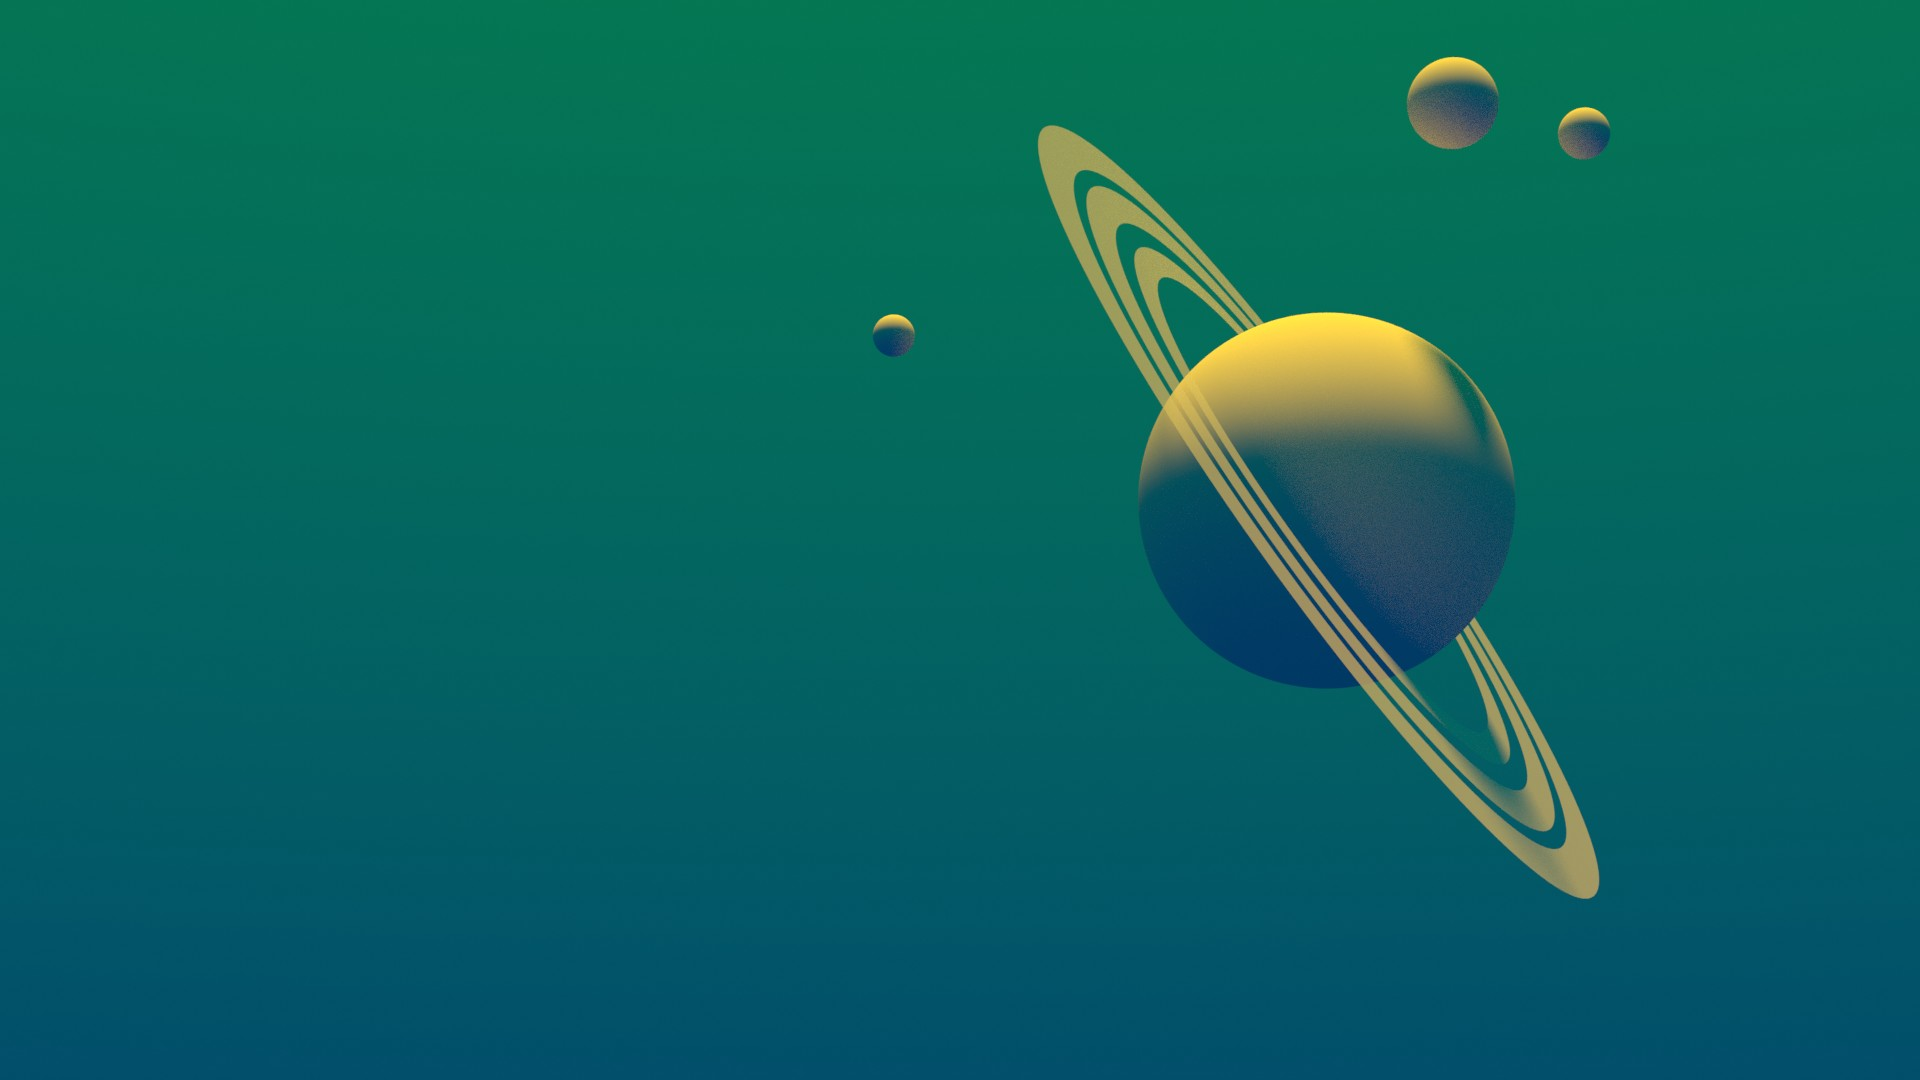
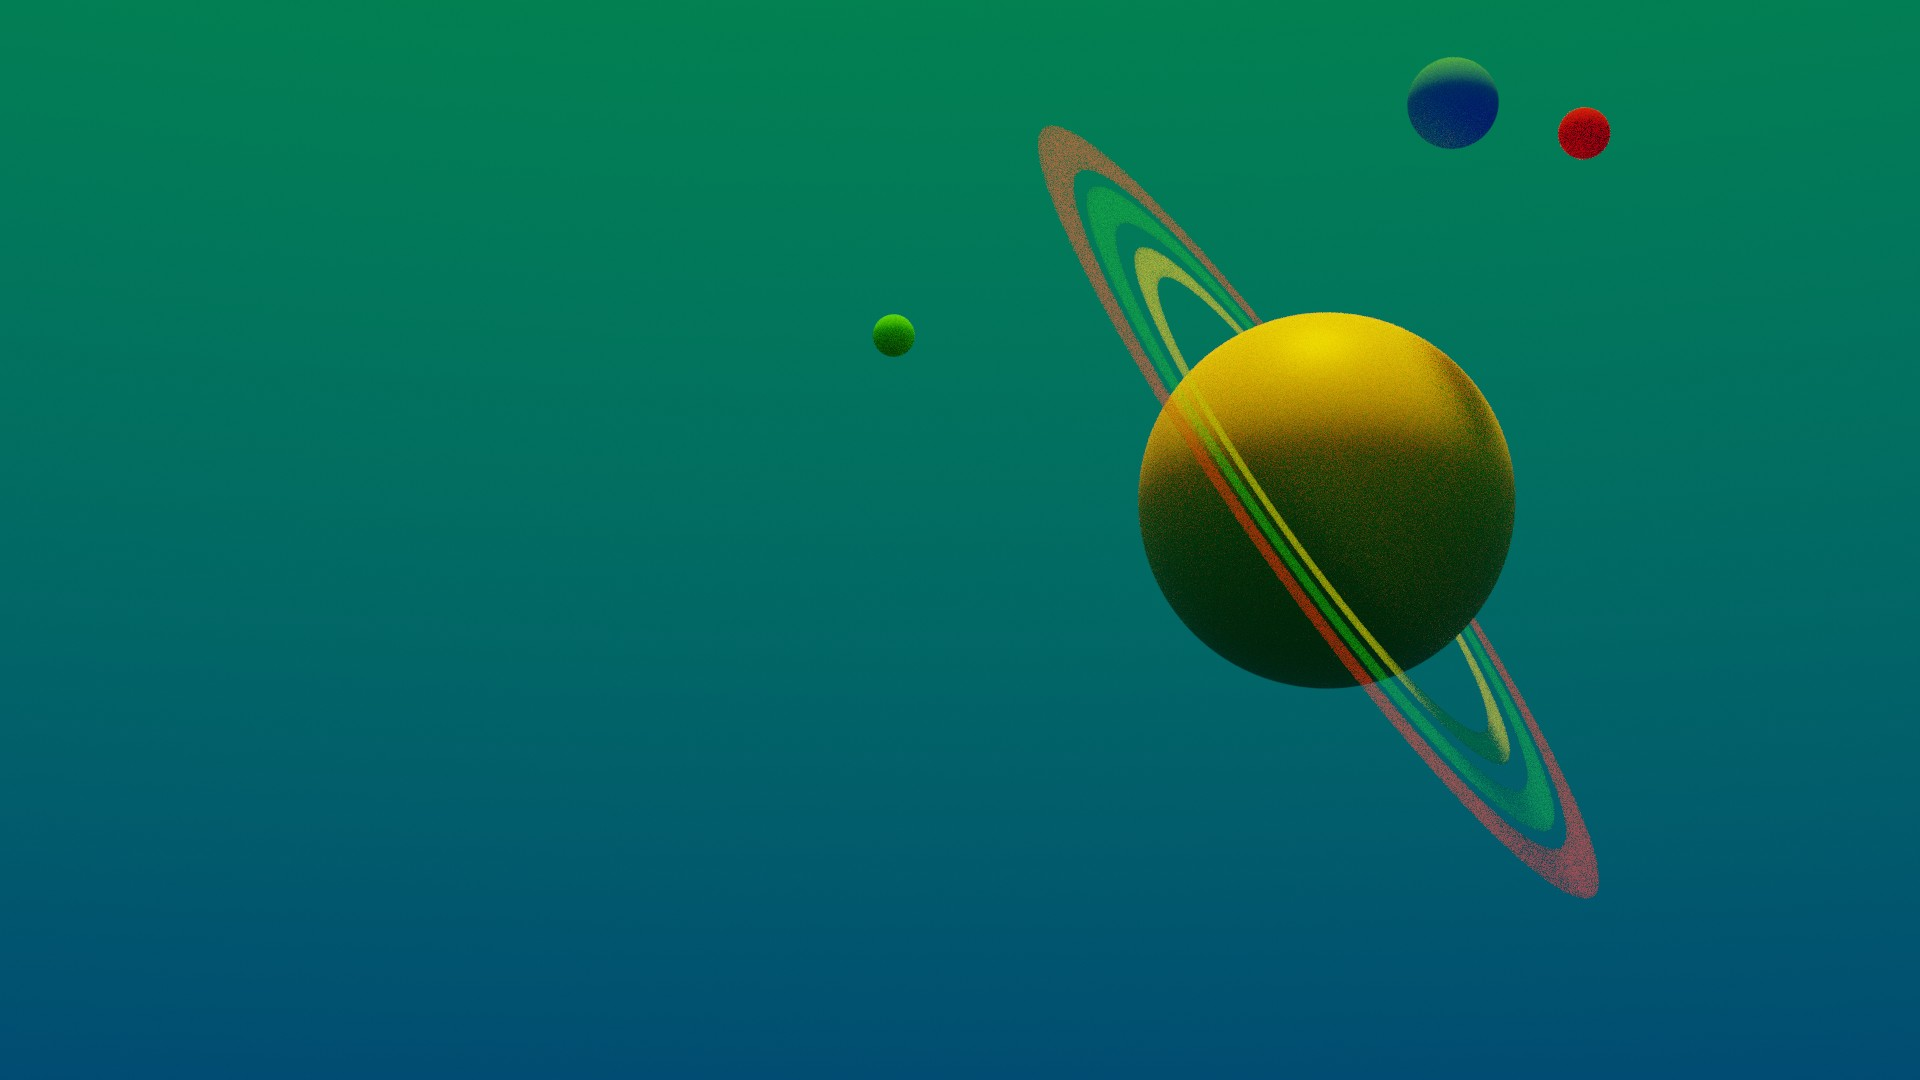
ImageLayer Auras & bugfix

diff --git a/src/test/java/de/isuret/polos/SwingFrameTest.java b/src/test/java/de/isuret/polos/SwingFrameTest.java
@@ -1,0 +1,30 @@
+package de.isuret.polos;
+
+import de.isuret.polos.AetherOnePi.processing2.AetherOneUI;
+import processing.awt.PSurfaceAWT;
+
+import javax.swing.*;
+
+public class SwingFrameTest extends JFrame {
+
+    public SwingFrameTest() {
+        this.setBounds(0,0,1920,1080);
+        this.setTitle("");
+
+        AetherOneUI.main(AetherOneUI.class.getName());
+        //PSurfaceAWT awtSurface = (PSurfaceAWT) p.getSurface();
+        //PSurfaceAWT.SmoothCanvas smoothCanvas = (PSurfaceAWT.SmoothCanvas)awtSurface.getNative();
+
+        this.setLayout(null);
+        JPanel aetherOnePiPanel = new JPanel();
+       // aetherOnePiPanel.add(awtSurface);
+
+        aetherOnePiPanel.setBounds(400,400,1285,721);
+        add(aetherOnePiPanel);
+        setVisible(true);
+    }
+
+    public static void main(String args[]) {
+        new SwingFrameTest();
+    }
+}

diff --git a/src/main/java/de/isuret/polos/AetherOnePi/imagelayers/ImageLayersAnalysis.java b/src/main/java/de/isuret/polos/AetherOnePi/imagelayers/ImageLayersAnalysis.java
@@ -41,6 +41,7 @@ public class ImageLayersAnalysis {
             if (file.isDirectory()) continue;
             if (!file.isFile()) continue;
             if (!file.getName().startsWith("IMAGE")) continue;
+            if (!file.getName().toLowerCase().endsWith("png")) continue;
 
             PImage image = p.loadImage(file.getAbsolutePath());
             image.resize(0, RESIZE_HEIGHT);
@@ -52,6 +53,7 @@ public class ImageLayersAnalysis {
             if (file.isDirectory()) continue;
             if (!file.isFile()) continue;
             if (file.getName().startsWith("IMAGE")) continue;
+            if (!file.getName().toLowerCase().endsWith("png")) continue;
 
             PImage image = p.loadImage(file.getAbsolutePath());
             image.resize(0, RESIZE_HEIGHT);
